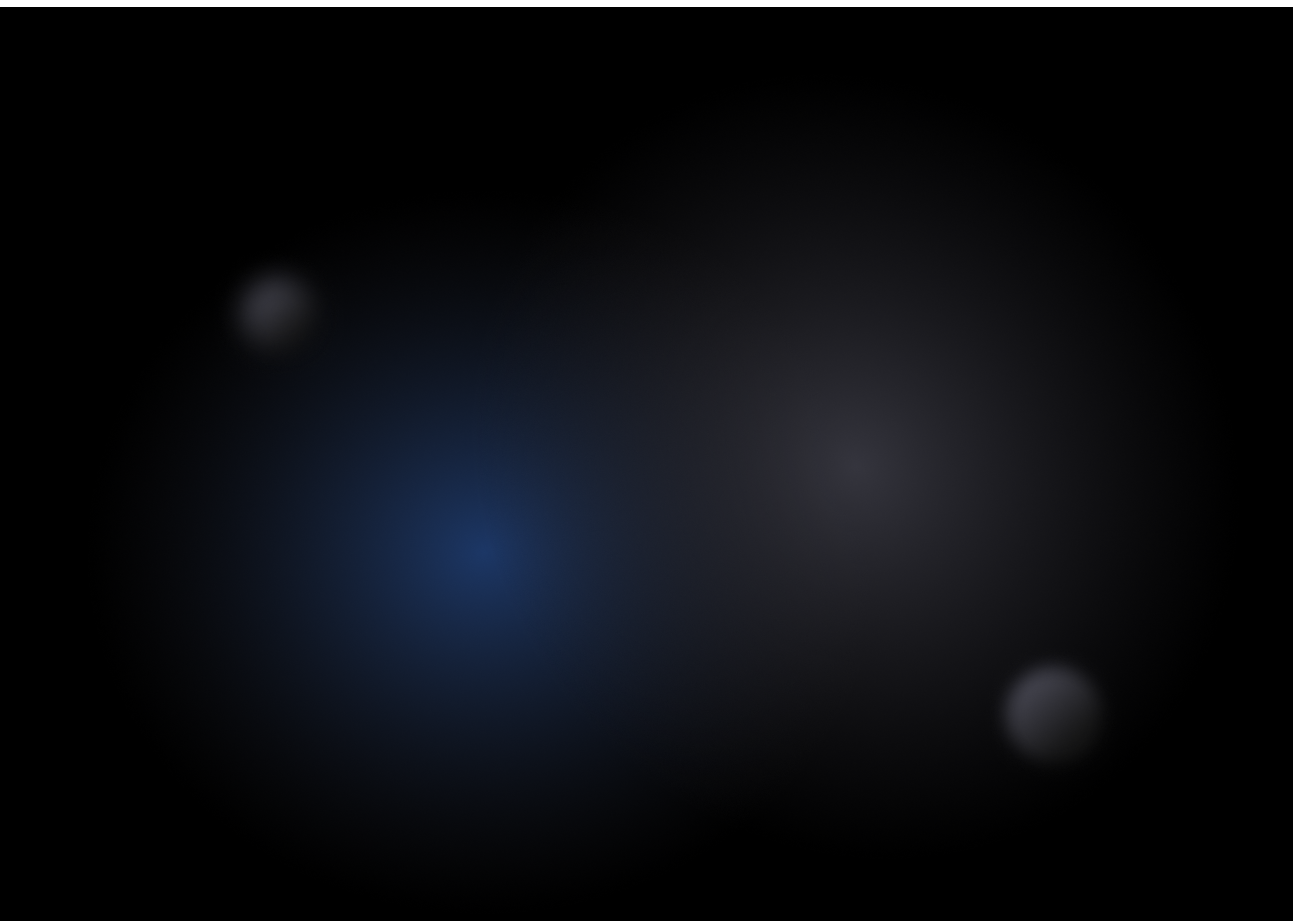
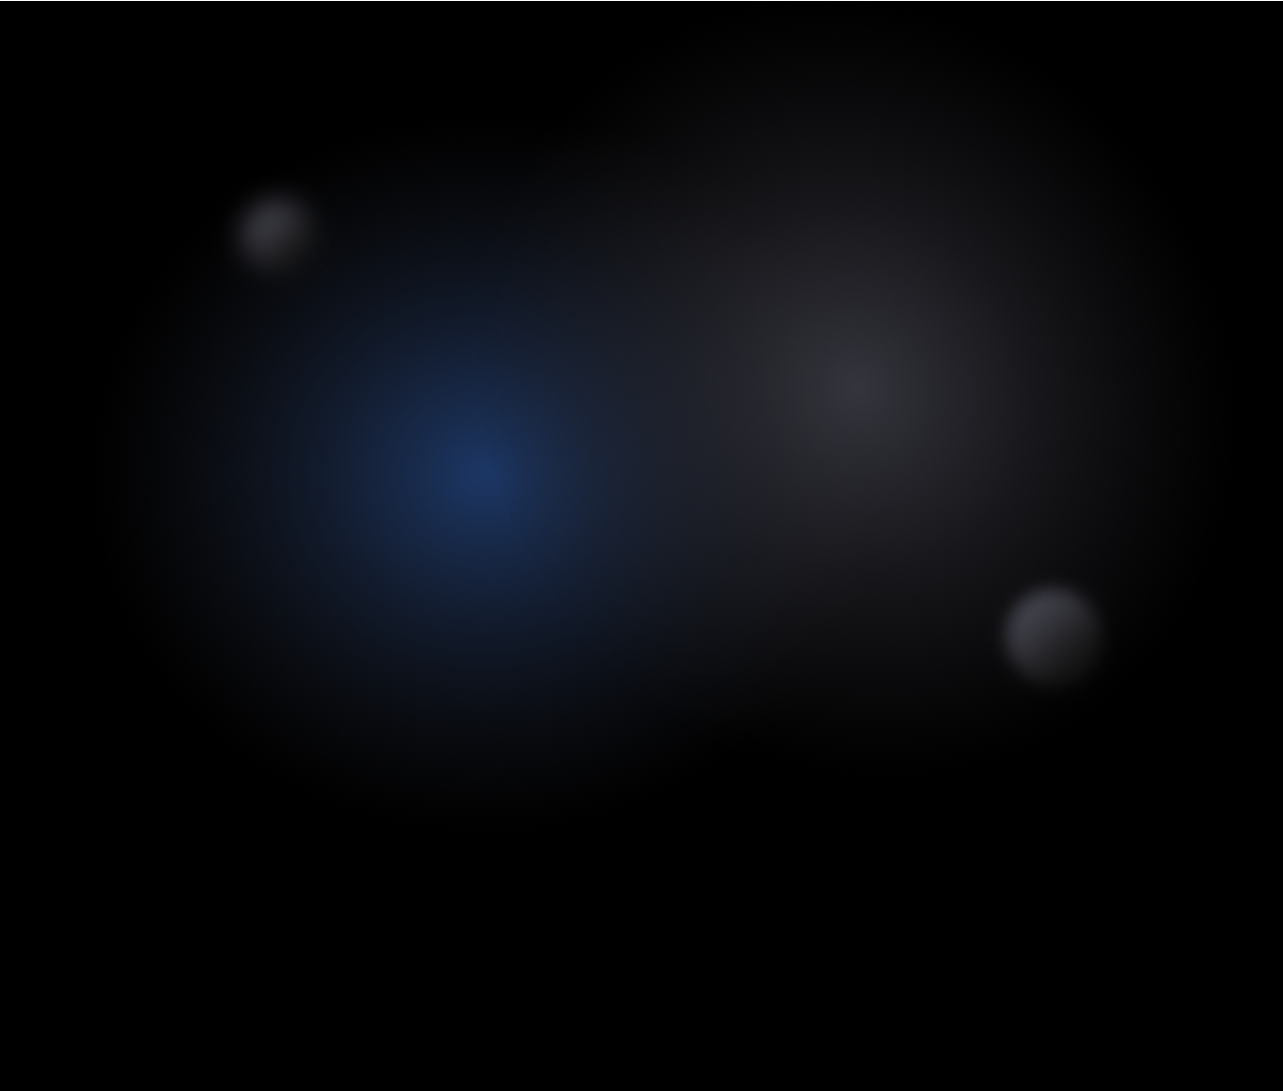
3-11 changed

diff --git a/css/theme.css b/css/theme.css
@@ -1139,7 +1139,7 @@ body{
   display: flex;
   align-items: center;
   justify-content: center;
-  background: url('../img/background-index.png');
+  background: linear-gradient(to bottom, rgba(0,0,0,0), rgba(0, 0, 0, 0.1) 90%, rgba(0, 0, 0, 1) 100%), url('../img/background-index.png');
 }
 
 .content-top:before {
